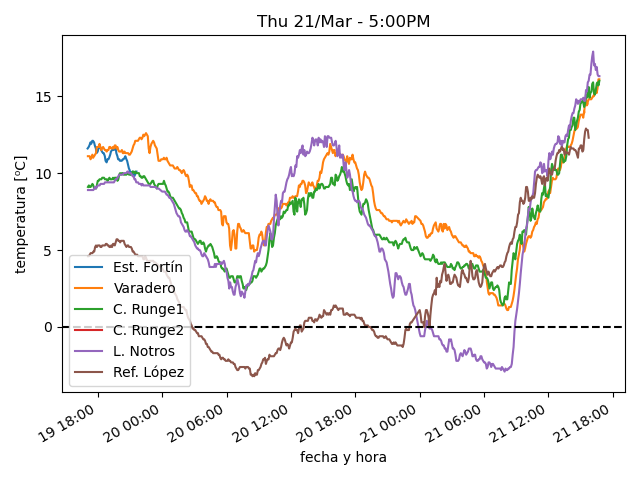
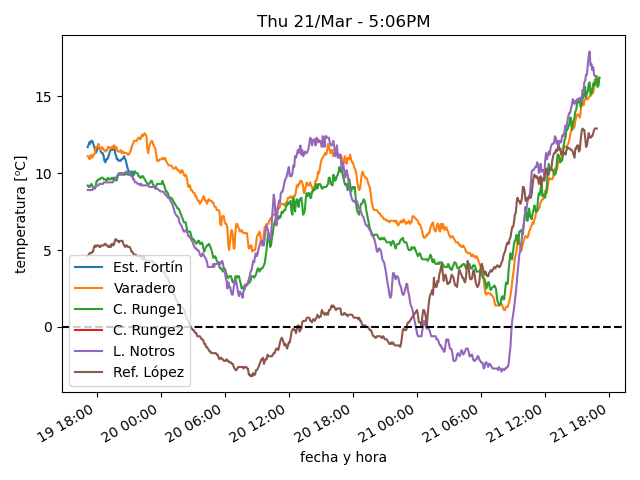
actualiza datos

diff --git a/estaciones/estacion2.html b/estaciones/estacion2.html
@@ -18,37 +18,12 @@
     </tr>
     <tr>
      <td class="stats_data">
-      4:44PM
+      5:04PM
      </td>
     </tr>
     <tr>
      <td class="stats_data">
-      16.1
-     </td>
-    </tr>
-    <tr>
-     <td class="stats_data">
-      4.4
-     </td>
-    </tr>
-    <tr>
-     <td class="stats_data">
-      45.8
-     </td>
-    </tr>
-    <tr>
-     <td class="stats_data">
-      1015.04
-     </td>
-    </tr>
-    <tr>
-     <td class="stats_data">
-      2.4/3.2 N
-     </td>
-    </tr>
-    <tr>
-     <td class="stats_data">
-      0.0 / 0.0
+      16.2
      </td>
     </tr>
     <tr>
@@ -58,7 +33,32 @@
     </tr>
     <tr>
      <td class="stats_data">
-      519.7
+      47.1
+     </td>
+    </tr>
+    <tr>
+     <td class="stats_data">
+      1015.04
+     </td>
+    </tr>
+    <tr>
+     <td class="stats_data">
+      2.3/2.7 N
+     </td>
+    </tr>
+    <tr>
+     <td class="stats_data">
+      0.0 / 0.0
+     </td>
+    </tr>
+    <tr>
+     <td class="stats_data">
+      4.0
+     </td>
+    </tr>
+    <tr>
+     <td class="stats_data">
+      449.8
      </td>
     </tr>
    </tbody>

diff --git a/estaciones/estacion3.html b/estaciones/estacion3.html
@@ -18,32 +18,32 @@
     </tr>
     <tr>
      <td class="stats_data">
-      4:44PM
+      5:04PM
      </td>
     </tr>
     <tr>
      <td class="stats_data">
-      16.0
+      16.2
      </td>
     </tr>
     <tr>
      <td class="stats_data">
-      1.5
+      2.9
      </td>
     </tr>
     <tr>
      <td class="stats_data">
-      37.6
+      41.0
      </td>
     </tr>
     <tr>
      <td class="stats_data">
-      1007.72
+      1007.82
      </td>
     </tr>
     <tr>
      <td class="stats_data">
-      1.2/2.0 W
+      1.8/2.6 WNW
      </td>
     </tr>
     <tr>
@@ -53,12 +53,12 @@
     </tr>
     <tr>
      <td class="stats_data">
-      5.0
+      4.0
      </td>
     </tr>
     <tr>
      <td class="stats_data">
-      453.3
+      390.9
      </td>
     </tr>
    </tbody>

diff --git a/estaciones/estacion6.html b/estaciones/estacion6.html
@@ -18,32 +18,32 @@
     </tr>
     <tr>
      <td class="stats_data">
-      3:45PM
+      4:50PM
      </td>
     </tr>
     <tr>
      <td class="stats_data">
-      12.3
+      12.9
      </td>
     </tr>
     <tr>
      <td class="stats_data">
-      2.4
+      1.2
      </td>
     </tr>
     <tr>
      <td class="stats_data">
-      51.0
+      45.0
      </td>
     </tr>
     <tr>
      <td class="stats_data">
-      1019.57
+      1019.07
      </td>
     </tr>
     <tr>
      <td class="stats_data">
-      4.8/8.0 NNE
+      3.2/6.4 SE
      </td>
     </tr>
     <tr>
@@ -58,7 +58,7 @@
     </tr>
     <tr>
      <td class="stats_data">
-      880.0
+      889.0
      </td>
     </tr>
    </tbody>
